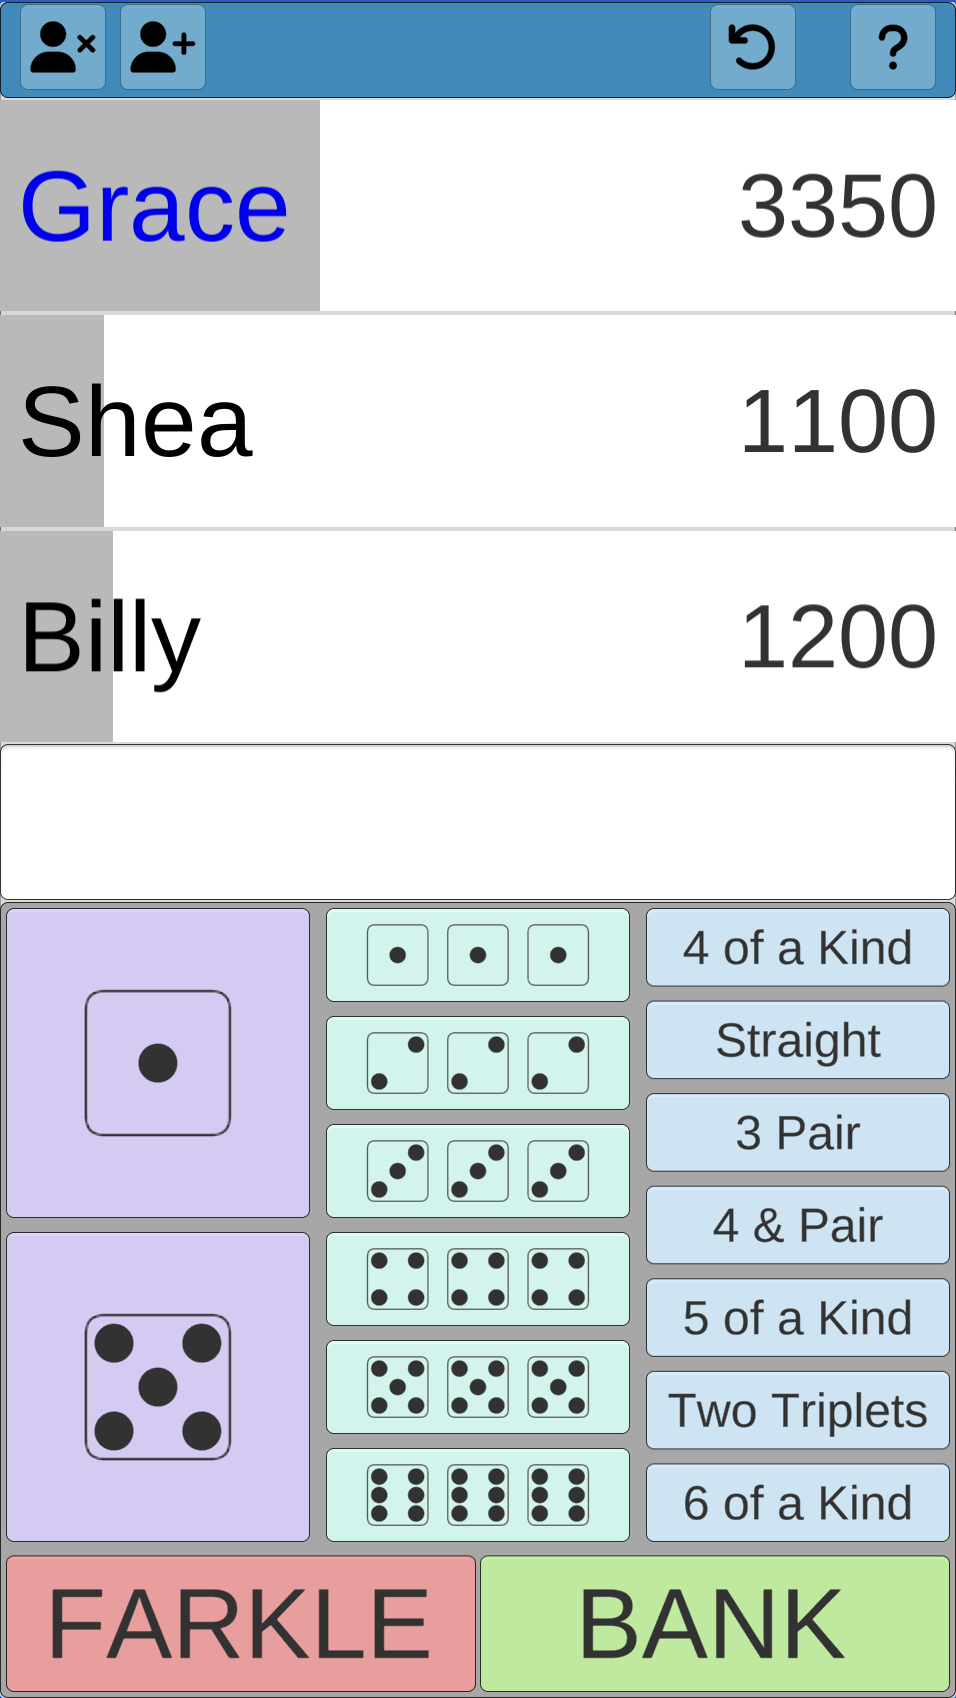
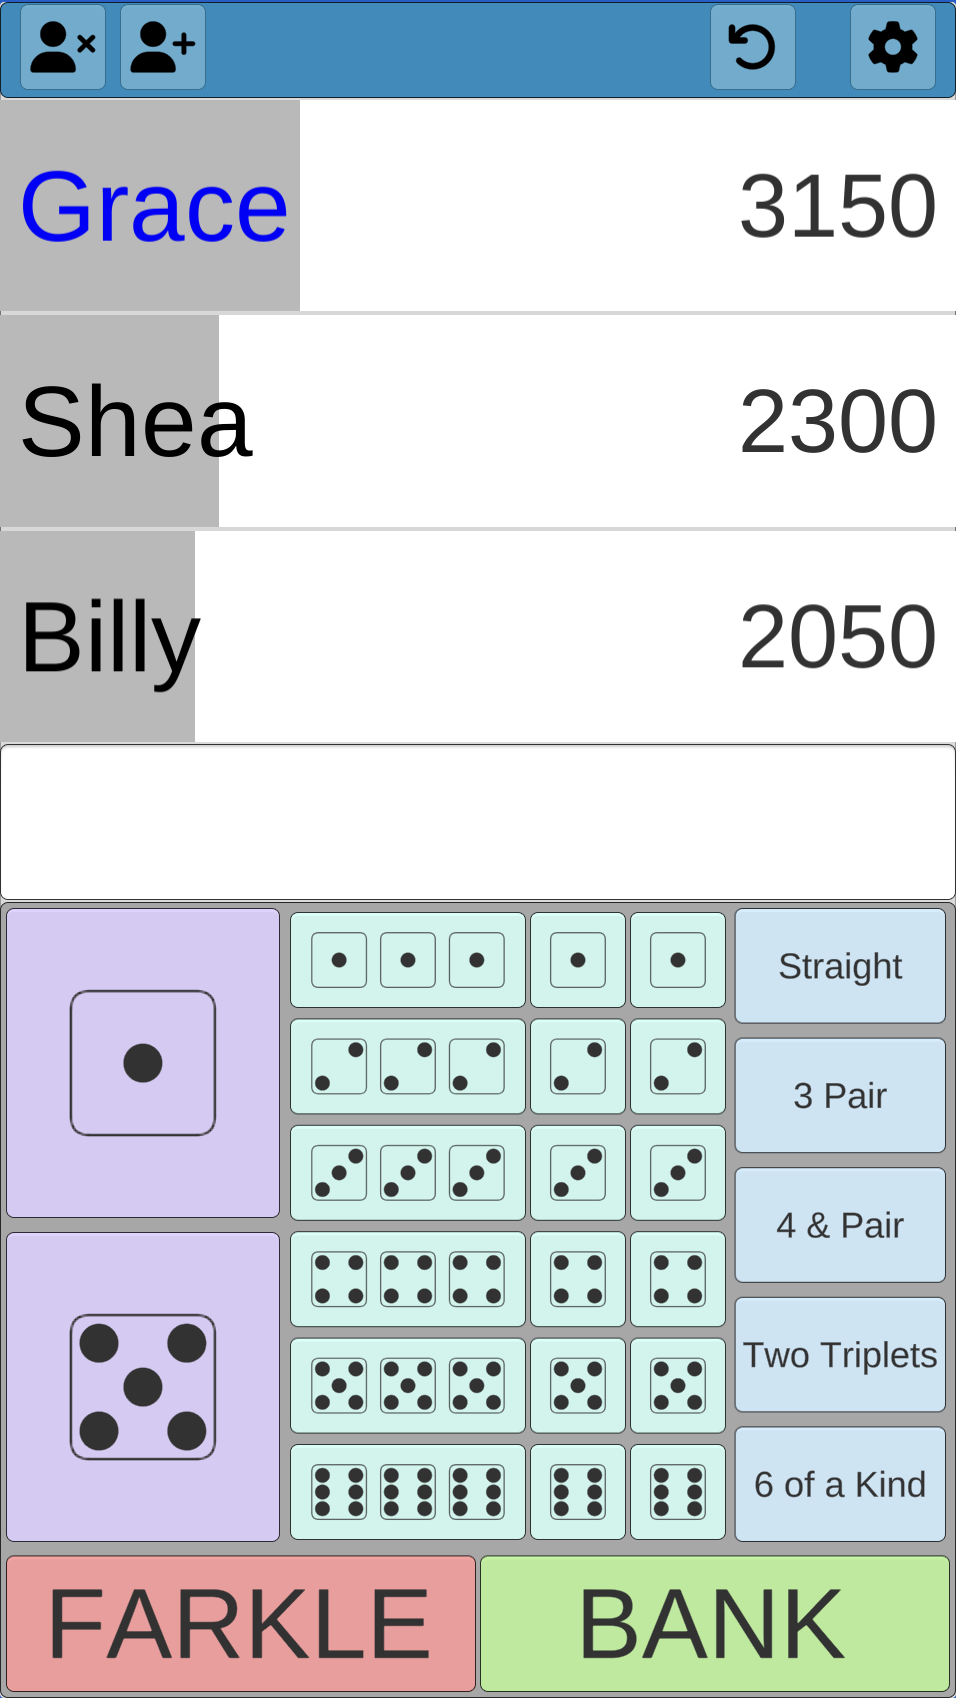
readme

diff --git a/README.md b/README.md
@@ -2,4 +2,5 @@
 
 Farkle score keeper.    
 
-![screenshot](screenshot.png)
+![screenshot](screenshot.PNG)
+![settings screenshot](settings_screenshot.PNG)
